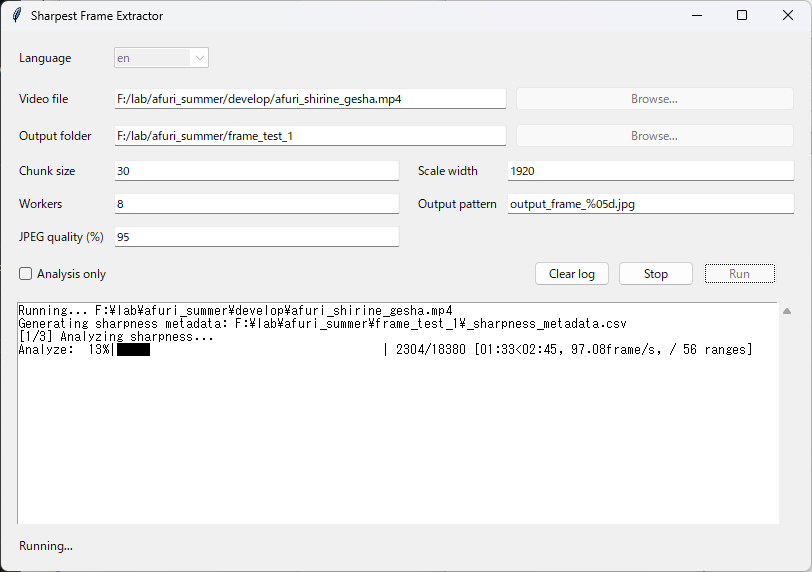
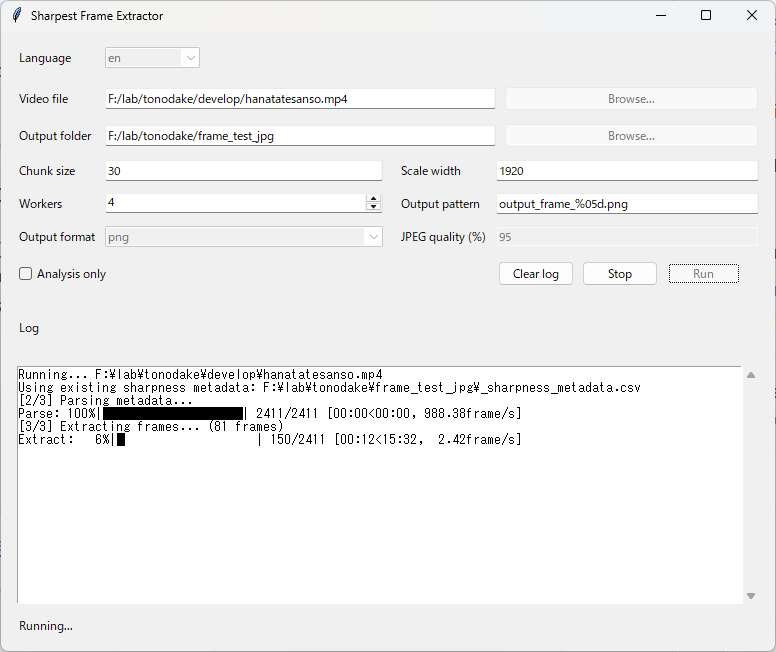
update readme

diff --git a/README.md b/README.md
@@ -13,6 +13,10 @@ The implementation uses OpenCV to read video frames, calculates sharpness with t
 **Windows binary edition with GUI is sold on BOOTH. No need python command and easy to run!**
 - [BOOTH URL] https://kotohibi-cg.booth.pm/ 
 ---
+Refer to the detail workflow
+- [[English]Easy&Fast 3D Gaussian Splatting workflow with 360 Camera](https://zenn.dev/kotohibi/articles/409bc16876b9e0)
+- [[日本語]Easy&Fast 3D Gaussian Splatting workflow with 360 Camera](https://zenn.dev/kotohibi/articles/28b137f1873921)
+
 
 ## Features
 
@@ -133,9 +137,10 @@ GUI behavior:
 | `--scale-width` | int | `1920` | Resize wider frames to this width for analysis |
 | `--workers` | int | `4` | Worker count for metadata extraction multiprocessing |
 | `--output-dir` | string | `sharp_frames` | Output directory |
+|`--output-format`| string | `png` | Output file format, png or jpg |
 | `--output-pattern` | string | `output_frame_%05d.jpg` | Output filename pattern |
 | `--jpeg-quality` | int or percent | `95` | JPEG quality percentage from `1` to `100` |
-| `--analysis-only` | flag | off | Create metadata only without writing JPEG files |
+| `--analysis-only` | flag | off | Create metadata only without writing JPEG or PNG files |
 
 ## Output Files
 
